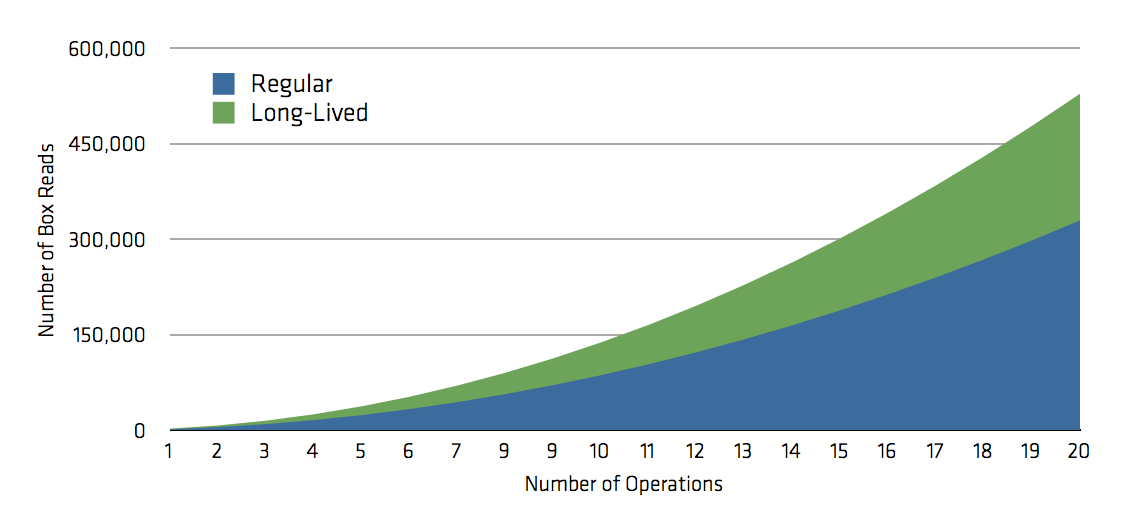
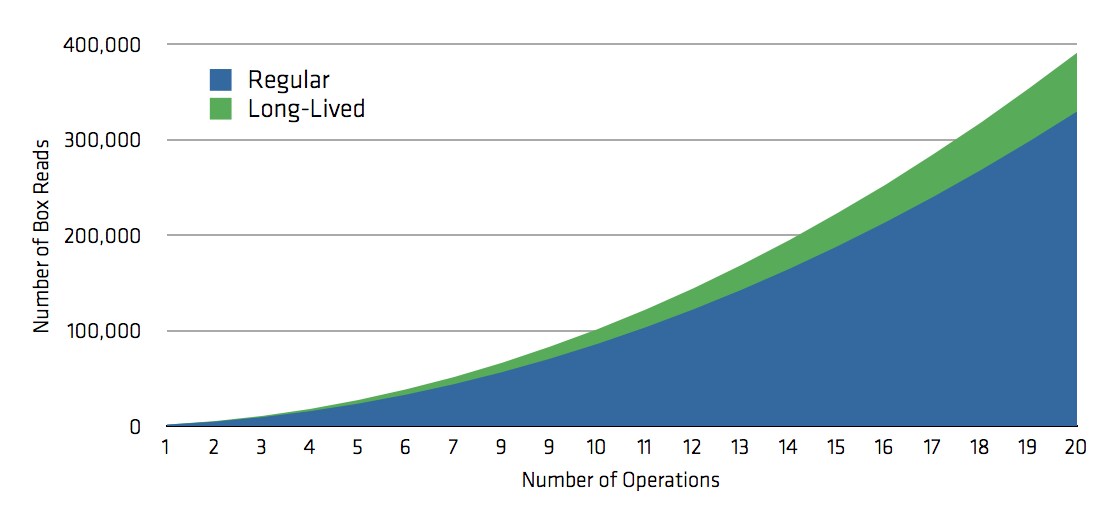
Update figures

Changed region(s): [[0.0304, 0.0592, 0.9732, 0.9172], [0.4562, 0.9172, 0.6386, 0.9763]]

diff --git a/optimization.tex b/optimization.tex
@@ -322,8 +322,8 @@ regular version. However, the growth rate (while linear) is still
 bigger than the original, with an average 4.4x performance loss. One
 of the big contributors for this speed improvement seems to be the
 number of Box Reads that happens throughout the transaction. Whereas
-in the original implementation this number reached over 1.5B, it is
-now reduced to about 3.1M.
+in the original implementation this number reached over 8.7B, it is
+now reduced to about 2.1M.
 
 \begin{figure}
 \centering
@@ -413,7 +413,7 @@ implementation using regular
 transactions. Figure~\ref{fig:comparisonFinal} shows a runtime
 comparison between using regular transactions and the final
 implementation of Long Lived Transactions: The speed down is now under
-1.8x.
+1.4x.
 
 The number of Box Reads is also very close to the regular transaction
 version, adding very little overhead. As the Write and Read Sets are
